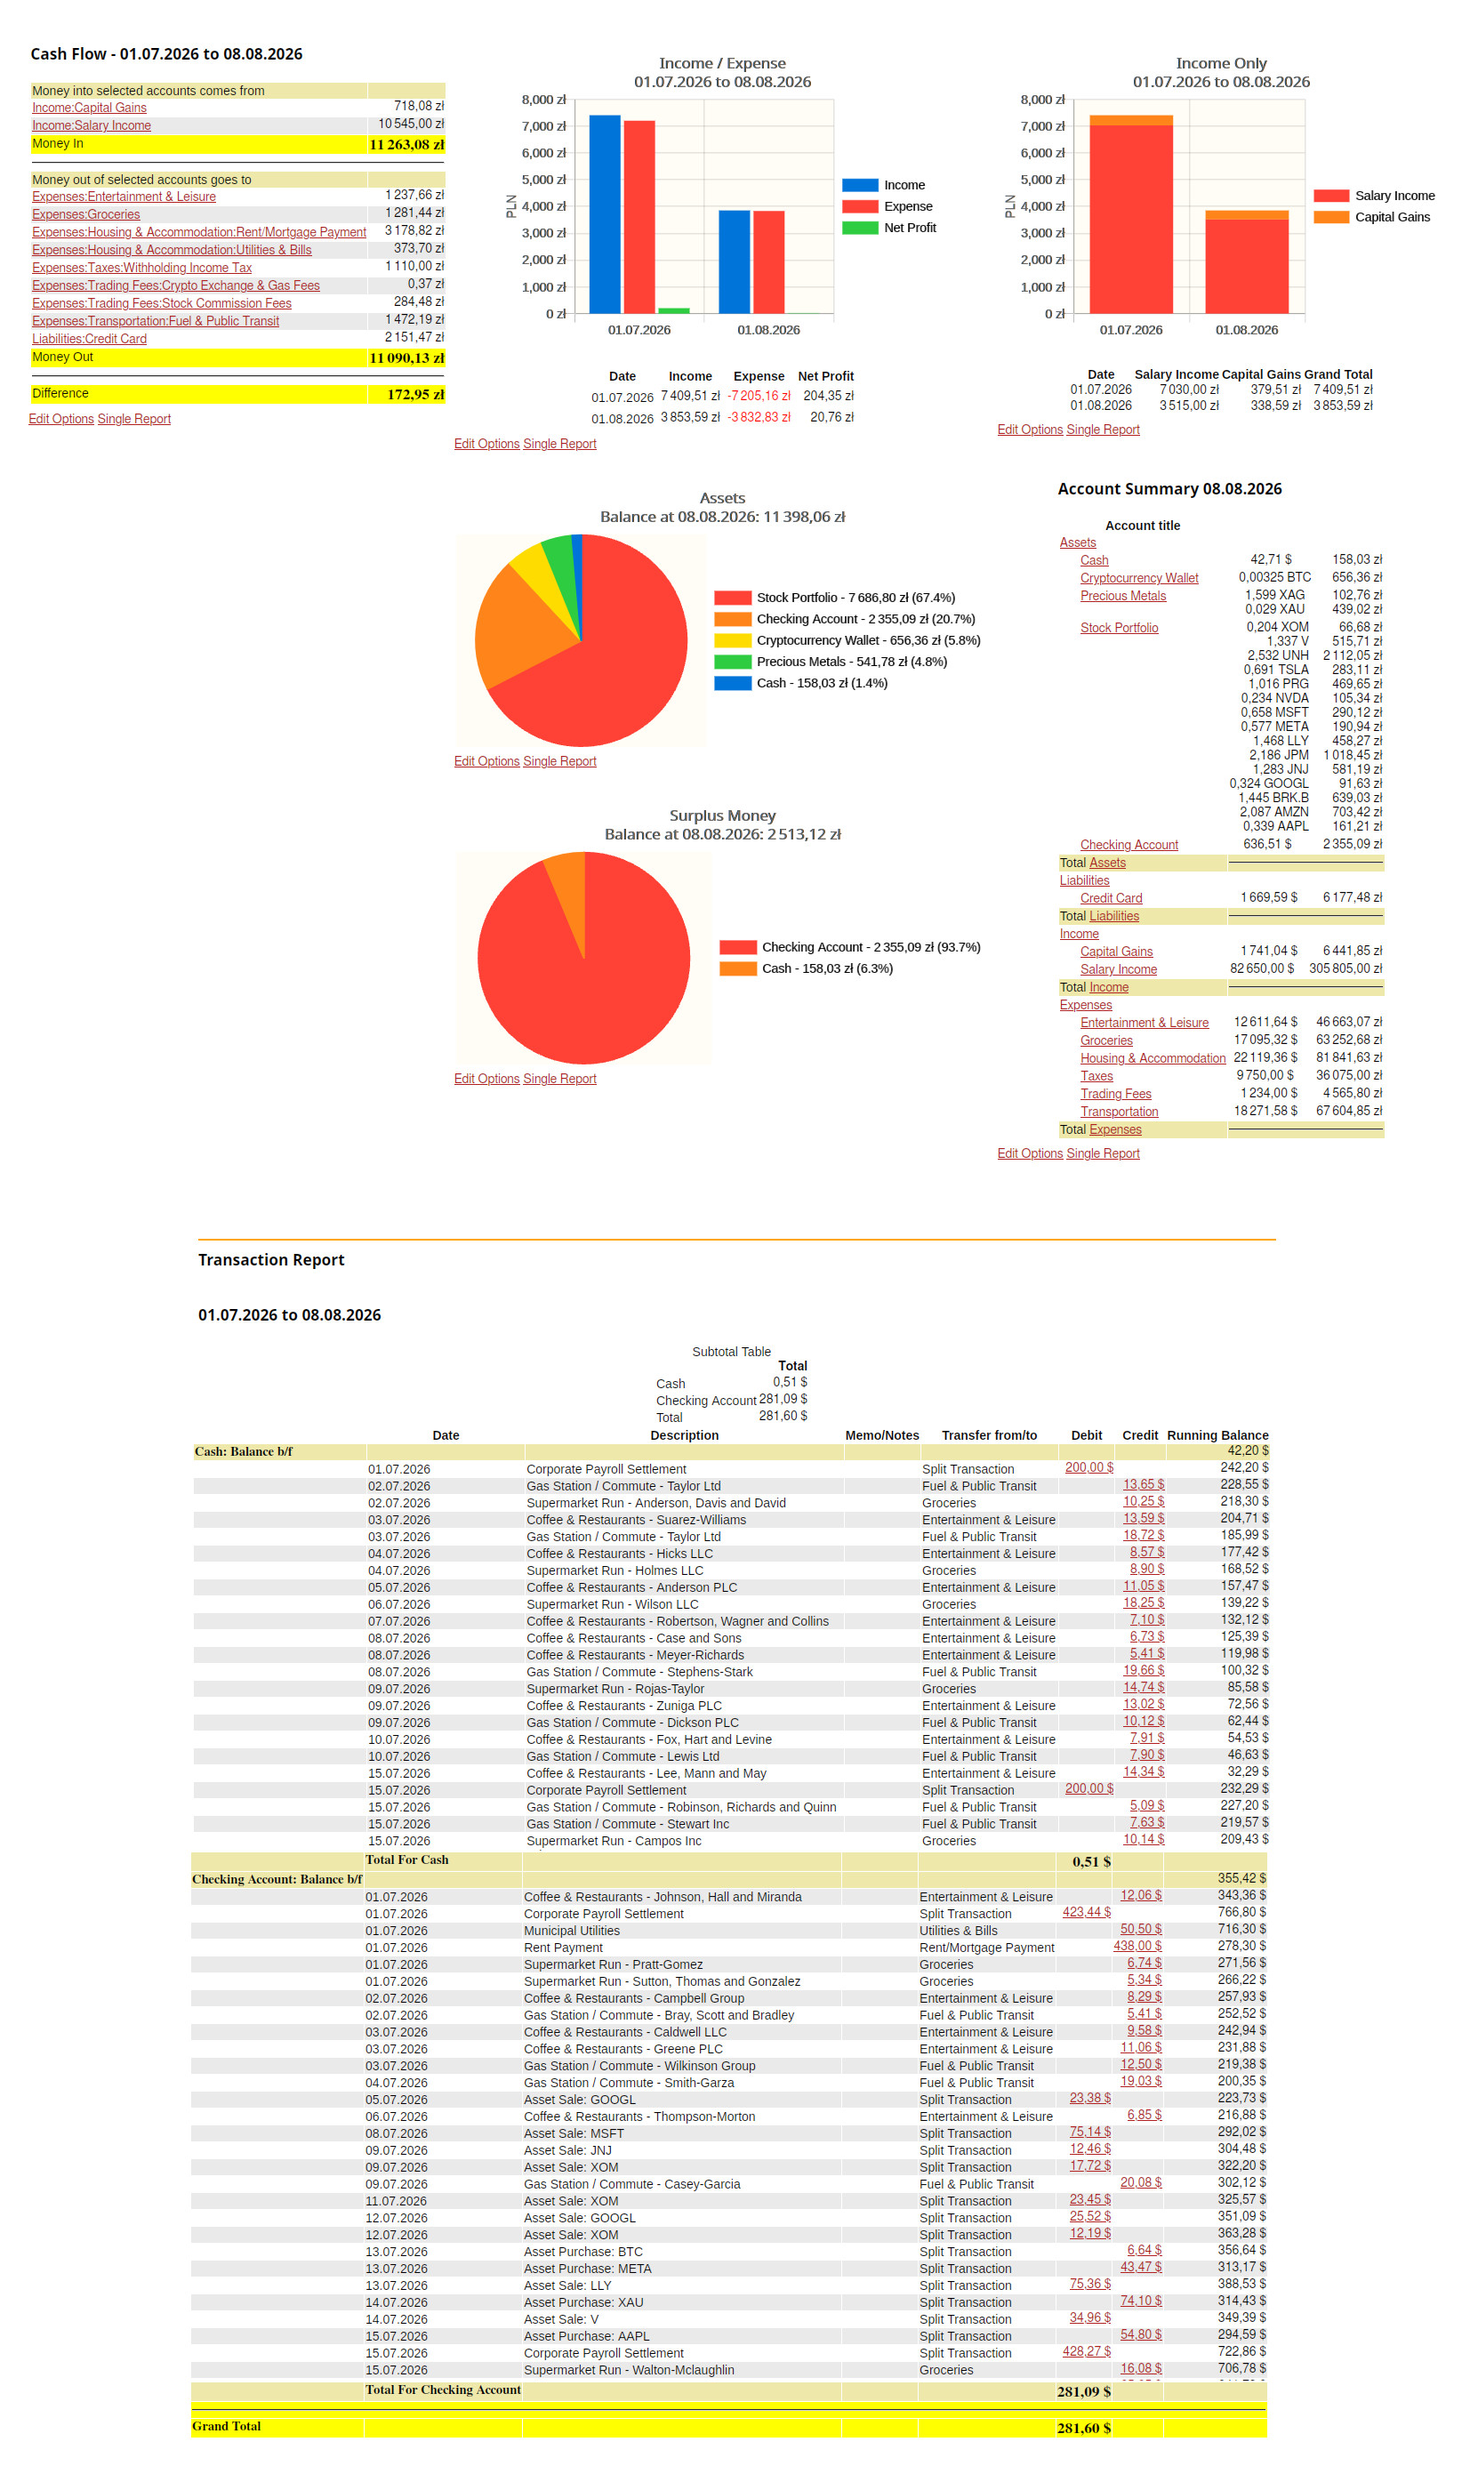
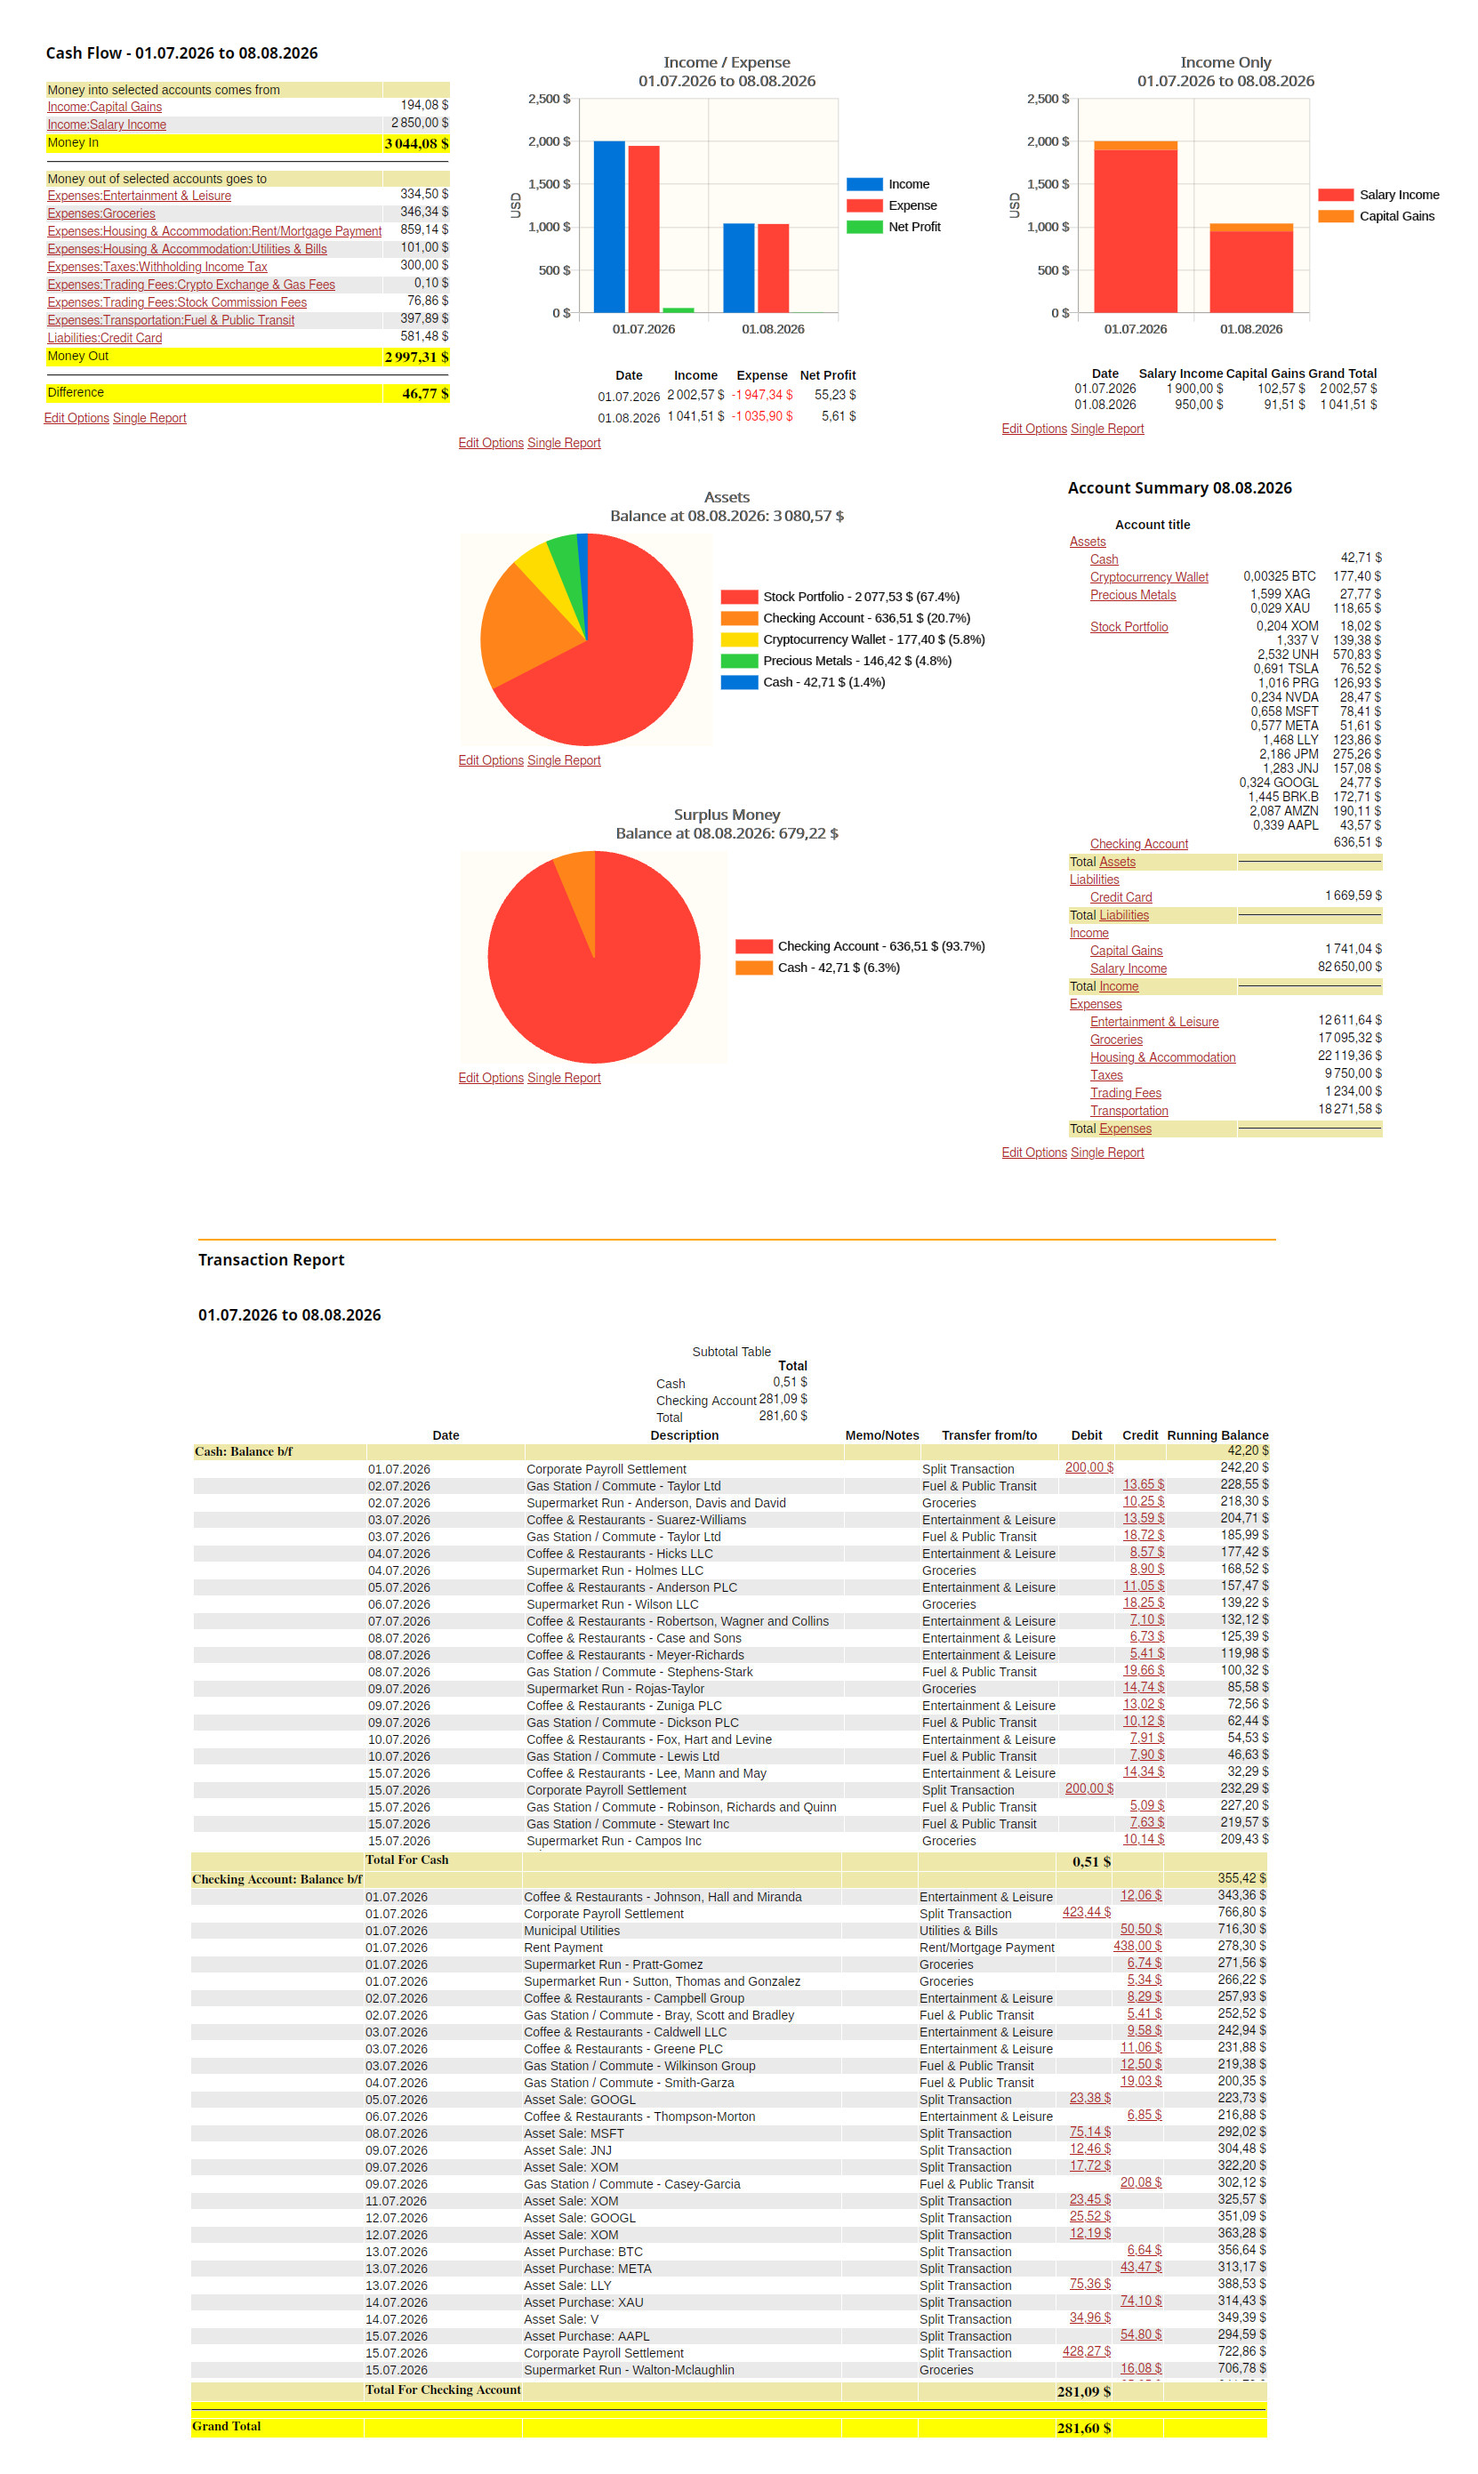
Big Enhancements - multiple updates - better numbers, closer to reality, no negative on cash|bank - better random transactions - manual UUIDs per account - now the given GCM settings, with premade reports, is going to work all the time, as long as you have USD chosen - updated reports on sample DB -

diff --git a/README.md b/README.md
@@ -40,7 +40,7 @@ By default, the generator is set to USD and starts as of 1-JAN-2023 (WARNING: if
 A sample database has been included (2023++). The GCM file provides already pre-configured reports.
 
 - copy the GCM file to "GNC_DATA_HOME\books" directory (run GnuCash and click: HELP -> ABOUT -> GNC_CONFIG_HOME to see where it's at) then open the sample database with the same name as the file.
-- !!! set the proper period (a must); run GnuCash then go to: EDIT -> PREFERENCES -> Accounting Period and set it accordingly to available data (between 2023-JAN and 2026-DEC). I'd advise to start with 2025-JAN-1 <-> 2025-DEC-31).
+- !!! set the proper period (a must); run GnuCash then go to: EDIT -> PREFERENCES -> Accounting Period and set it accordingly to available data (between 2023-JAN and 2026-DEC). I'd advise to start with 2025-JAN-1 <-> 2025-DEC-31). Some reports have already preconfigured date to look better.
 
 
  ##
